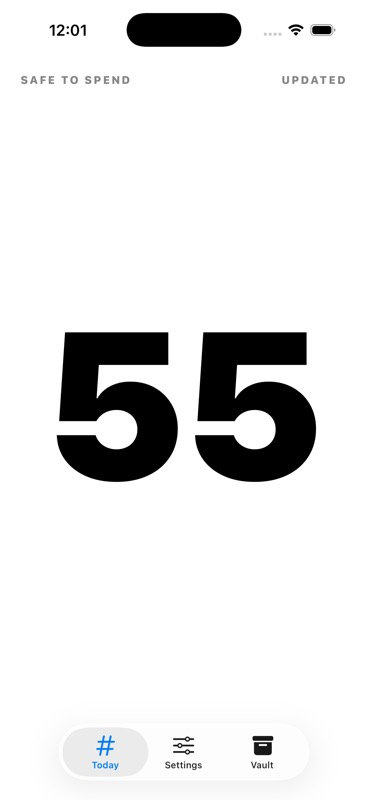
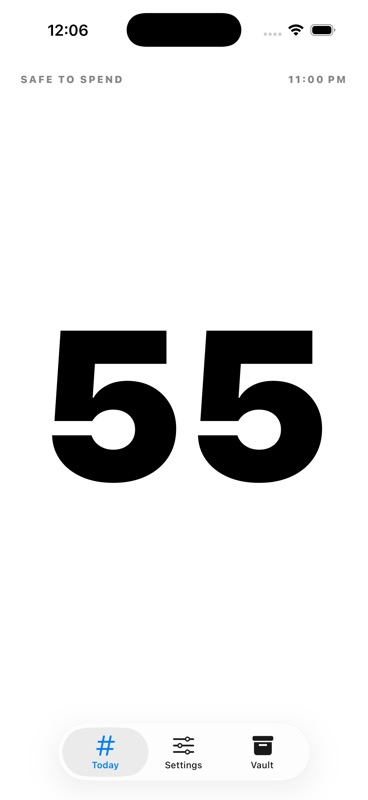
Tighten One Number phone UI

diff --git a/prototypes/iphone-widget/swiftui/OneNumberTodayView.swift b/prototypes/iphone-widget/swiftui/OneNumberTodayView.swift
@@ -4,32 +4,35 @@ struct OneNumberTodayView: View {
     let snapshot: LunchboxWidgetSnapshot
 
     var body: some View {
-        ZStack {
-            background.ignoresSafeArea()
+        GeometryReader { geometry in
+            ZStack {
+                background.ignoresSafeArea()
 
-            VStack(spacing: 0) {
-                HStack {
-                    Text("SAFE TO SPEND")
-                    Spacer()
-                    Text(updatedText)
+                VStack(spacing: 0) {
+                    HStack(alignment: .firstTextBaseline) {
+                        Text(statusText)
+                        Spacer(minLength: 16)
+                        Text(updatedText)
+                    }
+                    .font(.system(size: 11, weight: .heavy))
+                    .tracking(1.7)
+                    .foregroundStyle(secondaryColor)
+                    .padding(.horizontal, 22)
+                    .padding(.top, 18)
+
+                    Spacer(minLength: 0)
+
+                    Text(snapshot.displayNumber)
+                        .font(.system(size: numberSize(for: geometry.size), weight: .black, design: .default))
+                        .monospacedDigit()
+                        .minimumScaleFactor(0.2)
+                        .lineLimit(1)
+                        .foregroundStyle(primaryColor)
+                        .padding(.horizontal, 18)
+                        .accessibilityLabel(accessibilityText)
+
+                    Spacer(minLength: 0)
                 }
-                .font(.system(size: 12, weight: .heavy))
-                .tracking(1.8)
-                .foregroundStyle(snapshot.isNegative ? .white.opacity(0.72) : .black.opacity(0.48))
-                .padding(.horizontal, 22)
-                .padding(.top, 18)
-
-                Spacer(minLength: 0)
-
-                Text(snapshot.displayNumber)
-                    .font(.system(size: 228, weight: .black, design: .default))
-                    .minimumScaleFactor(0.2)
-                    .lineLimit(1)
-                    .foregroundStyle(snapshot.isNegative ? .white : .black)
-                    .padding(.horizontal, 18)
-                    .accessibilityLabel("Safe to spend \(snapshot.displayNumber)")
-
-                Spacer(minLength: 0)
             }
         }
     }
@@ -38,11 +41,42 @@ struct OneNumberTodayView: View {
         snapshot.isNegative ? Color(red: 0.84, green: 0.1, blue: 0.13) : .white
     }
 
+    private var primaryColor: Color {
+        snapshot.isNegative ? .white : .black
+    }
+
+    private var secondaryColor: Color {
+        primaryColor.opacity(snapshot.isNegative ? 0.74 : 0.48)
+    }
+
+    private var statusText: String {
+        snapshot.isNegative ? "OVER TODAY" : "SAFE TO SPEND"
+    }
+
     private var updatedText: String {
-        guard let date = ISO8601DateFormatter().date(from: snapshot.lastUpdated) else {
+        guard let date = Self.snapshotDate(snapshot.lastUpdated) else {
             return "UPDATED"
         }
-        return "UPDATED " + date.formatted(.dateTime.hour().minute())
+        return date.formatted(.dateTime.hour().minute())
+    }
+
+    private var accessibilityText: String {
+        snapshot.isNegative ? "Over today by \(snapshot.displayNumber)" : "Safe to spend \(snapshot.displayNumber)"
+    }
+
+    private func numberSize(for size: CGSize) -> CGFloat {
+        min(232, max(162, size.width * 0.6))
+    }
+
+    private static func snapshotDate(_ value: String) -> Date? {
+        if let date = ISO8601DateFormatter().date(from: value) {
+            return date
+        }
+
+        let formatter = DateFormatter()
+        formatter.locale = Locale(identifier: "en_US_POSIX")
+        formatter.dateFormat = "yyyy-MM-dd'T'HH:mm:ss"
+        return formatter.date(from: value)
     }
 }
 
@@ -51,26 +85,56 @@ struct OneNumberSettingsView: View {
 
     var body: some View {
         Form {
-            Section("Daily Allowance") {
-                Text("$\(Int(snapshot.dailyAllowance.rounded()))")
-            }
             Section("Today") {
+                LabeledContent("Remaining", value: dollars(snapshot.remainingToday))
                 LabeledContent("Spent", value: "$\(Int(snapshot.todayDiscretionarySpend.rounded()))")
-                LabeledContent("Remaining", value: snapshot.displayNumber)
+                LabeledContent("Daily", value: dollars(snapshot.dailyAllowance))
             }
-            Section("Data") {
-                Text("Settings are generated from config/budget.yaml for this prototype.")
+
+            Section("Status") {
+                LabeledContent("State", value: snapshot.isNegative ? "Over" : "Clear")
+                LabeledContent("Updated", value: updatedText)
             }
         }
         .navigationTitle("Settings")
+    }
+
+    private var updatedText: String {
+        guard let date = ISO8601DateFormatter().date(from: snapshot.lastUpdated) ?? fallbackDate else {
+            return "Unknown"
+        }
+        return date.formatted(.dateTime.month(.abbreviated).day().hour().minute())
+    }
+
+    private var fallbackDate: Date? {
+        let formatter = DateFormatter()
+        formatter.locale = Locale(identifier: "en_US_POSIX")
+        formatter.dateFormat = "yyyy-MM-dd'T'HH:mm:ss"
+        return formatter.date(from: snapshot.lastUpdated)
+    }
+
+    private func dollars(_ value: Double) -> String {
+        "$\(Int(value.rounded()).formatted())"
     }
 }
 
 struct OneNumberVaultView: View {
     var body: some View {
-        List {
-            Text("Month-end results will appear here after the ledger is synced into the app group.")
+        VStack(spacing: 14) {
+            Image(systemName: "archivebox")
+                .font(.system(size: 34, weight: .semibold))
+                .foregroundStyle(.secondary)
+
+            Text("No vault entries yet")
+                .font(.headline)
+                .foregroundStyle(.primary)
+
+            Text("Month-end results will show up here.")
+                .font(.subheadline)
+                .foregroundStyle(.secondary)
         }
+        .frame(maxWidth: .infinity, maxHeight: .infinity)
+        .background(Color(red: 0.96, green: 0.96, blue: 0.95))
         .navigationTitle("Vault")
     }
 }